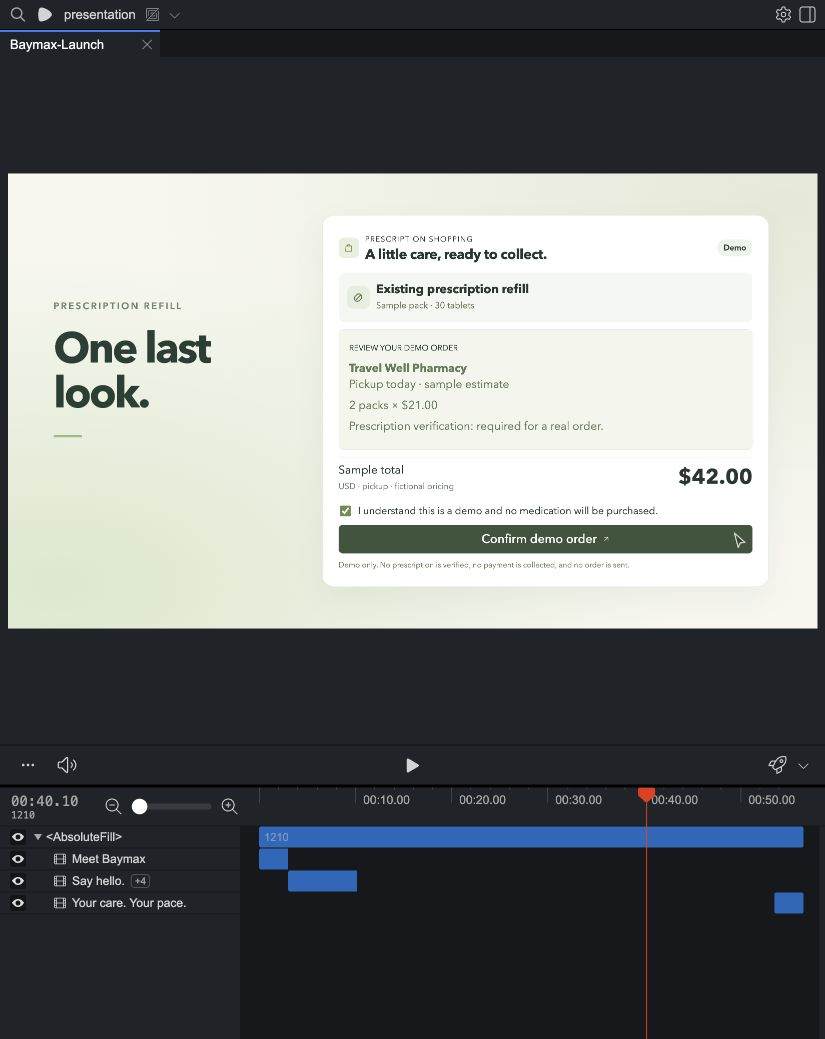
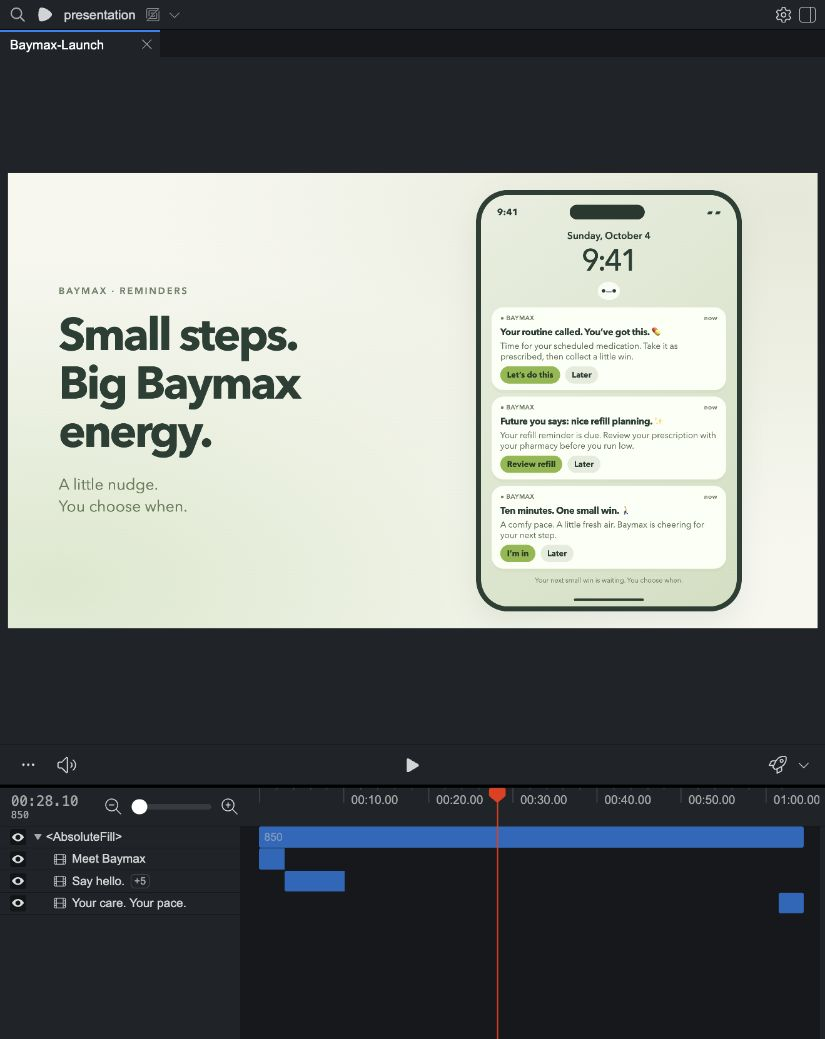
Focus demo on medical care and add animated phone reminders

diff --git a/presentation/src/demo/DemoApp.tsx b/presentation/src/demo/DemoApp.tsx
@@ -14,18 +14,18 @@ const Task=({children,checked=false,active=false}:{children:React.ReactNode;chec
 const Card=({children,className=''}:{children:React.ReactNode;className?:string})=><section className={`d-card ${className}`}>{children}</section>;
 const Typed=({text,frame}:{text:string;frame:number})=><>{text.slice(0,Math.floor(Math.max(0,frame)*1.35))}<span className="d-type-caret"/></>;
 
-const Today=({water=3,completed=false}:{water?:number;completed?:boolean})=><div className="d-today"><div className="d-today-intro"><div><span className="d-eyebrow">A LITTLE CARE GOES A LONG WAY</span><h2>Good morning, Alex.</h2><p>You’re building something great. Let’s take care of you, too.</p></div><span className="d-status">{completed?'Check-in saved ✓':'Your little wins today'}</span></div><div className="d-metrics">{[{title:'HYDRATION',icon:<Water size={34}/>,value:String(water),unit:'/ 8 glasses',note:'A sip now is a little win.'},{title:'MOVEMENT',icon:<Walk size={34}/>,value:completed?'10':'0',unit:'/ 30 minutes',note:completed?'Walk completed ✓':'One small step counts.'},{title:'YOUR ENERGY',icon:<Sun size={34}/>,value:completed?'Good':'Check in',unit:completed?'today':'',note:'You don’t have to be at 100%.'}].map((m,i)=><Card key={m.title}><div className="d-metric-top">{m.icon}<span>{m.title}</span>{i===0&&<b className={water===4?'d-water-added':''}>＋<Cue id="Water"/></b>}</div><div className="d-metric-value">{m.value}<small>{m.unit}</small></div>{i===0?<div className="d-water-bars">{Array.from({length:8},(_,j)=><i key={j} className={j<water?'filled':''}/>)}</div>:<div className="d-metric-track"><i style={{width:i===1?(completed?'33%':'0%'):'75%'}}/></div>}<p>{m.note}</p></Card>)}</div></div>;
+const Today=({water=3,completed=false}:{water?:number;completed?:boolean})=><div className="d-today"><div className="d-today-intro"><div><span className="d-eyebrow">A LITTLE CARE GOES A LONG WAY</span><h2>Good morning, Alex.</h2><p>Keep your health notes and daily check-ins together.</p></div><span className="d-status">{completed?'Check-in saved ✓':'Your little wins today'}</span></div><div className="d-metrics">{[{title:'HYDRATION',icon:<Water size={34}/>,value:String(water),unit:'/ 8 glasses',note:'A sip now is a little win.'},{title:'MOVEMENT',icon:<Walk size={34}/>,value:'0',unit:'/ 30 minutes',note:'One small step counts.'},{title:'YOUR ENERGY',icon:<Sun size={34}/>,value:completed?'Good':'Check in',unit:completed?'today':'',note:'You don’t have to be at 100%.'}].map((m,i)=><Card key={m.title}><div className="d-metric-top">{m.icon}<span>{m.title}</span>{i===0&&<b className={water===4?'d-water-added':''}>＋<Cue id="Water"/></b>}</div><div className="d-metric-value">{m.value}<small>{m.unit}</small></div>{i===0?<div className="d-water-bars">{Array.from({length:8},(_,j)=><i key={j} className={j<water?'filled':''}/>)}</div>:<div className="d-metric-track"><i style={{width:i===1?'0%':'75%'}}/></div>}<p>{m.note}</p></Card>)}</div></div>;
 
 const Welcome=({step,stepFrame}:Props)=>{
  if(step===3)return <Today/>;
- if(step===2)return <div className="d-chat-welcome"><MascotSprite size={170}/><h2>Hello. I am Baymax.</h2><p>Your personal care companion. What’s on your mind?</p><div className="d-suggestions"><span>Help me prepare for a hackathon ↗</span><span>I need a prescription refill ↗</span><span>Draft a brief to my doctor ↗</span></div><div className="d-composer">Tell Baymax what you need…<b>↑</b></div></div>;
+ if(step===2)return <div className="d-chat-welcome"><MascotSprite size={170}/><h2>Hello. I am Baymax.</h2><p>Your Medical Personal Agent. What’s on your mind?</p><div className="d-suggestions"><span>Help me prepare for my doctor visit ↗</span><span>I need a prescription refill ↗</span><span>Draft a brief to my doctor ↗</span></div><div className="d-composer">Tell Baymax what you need…<b>↑</b></div></div>;
  return <Card className="d-welcome"><div className="d-welcome-copy"><span className="d-eyebrow">MEET YOUR CARE COMPANION</span><h2>A little adorable.<br/>A lot of love.</h2><p>I’ll help you make room for your health, even when life gets busy.</p><Field label="What should I call you?" value={step===1?typed('Alex',stepFrame-3,.35):''} active={step===1}/><Action active={step===1&&stepFrame>25}>Let’s take care of you</Action></div><div className="d-welcome-mascot"><MascotSprite size={360} greeting/></div></Card>;
 };
 const Care=({step,stepFrame}:Props)=>{
  if(step===5)return <Today water={stepFrame>at('care',5,'Water')?4:3} completed/>;
- if(step===0)return <div className="d-conversation">{stepFrame>32&&<div className="d-user-message">Help me prepare for a hackathon</div>}{stepFrame>42&&<div className="d-response"><MascotSprite size={140}/><div><h2>Let’s make a plan.</h2></div></div>}<div className="d-composer">{stepFrame<=32?<Typed text="Help me prepare for a hackathon" frame={stepFrame}/>: 'What else is on your mind?'}<b>↑<Cue id="Send"/></b></div></div>;
+ if(step===0)return <div className="d-conversation">{stepFrame>32&&<div className="d-user-message">Help me prepare for my doctor visit</div>}{stepFrame>42&&<div className="d-response"><MascotSprite size={140}/><div><h2>Let’s make a plan.</h2></div></div>}<div className="d-composer">{stepFrame<=32?<Typed text="Help me prepare for my doctor visit" frame={stepFrame}/>: 'What else is on your mind?'}<b>↑<Cue id="Send"/></b></div></div>;
  if(step===3)return <Card className="d-energy"><span className="d-eyebrow">YOUR DAILY CHECK-IN</span><h2>How’s your energy?</h2><p>There’s no wrong answer. Start where you are.</p><div className="d-energy-options">{['Low','Okay','Good','Great'].map((v,i)=><div key={v} className={v==='Good'&&stepFrame>20?'selected':''}><span>{['☁','◒','☀','✦'][i]}</span>{v}<Cue id={v}/></div>)}</div><Action active={stepFrame>40}>Save my check-in</Action></Card>;
- return <div className="d-two-column"><Card className="d-plan"><span className="d-eyebrow">YOUR PREPARATION PLAN</span><h2>Build something great.<br/>Feel good doing it.</h2><div className="d-fields-row"><Field label="Event" value="Build Personal Agents Hackathon"/><Field label="Date" value="October 10, 2026"/></div><Task checked={step>2||(step===2&&stepFrame>at('care',2,'Take a 10-minute walk'))} active={step===2}>Take a 10-minute walk</Task><Task checked={(step>2||(step===2&&stepFrame>at('care',2,'Make time for a real meal')))}>Make time for a real meal</Task><Task>Set a wind-down reminder</Task><div className="plan-next"><Action active={step===2&&stepFrame>40}>Check in for today</Action></div></Card><div className="d-care-side"><MascotSprite size={230}/>{step===4?<><div className="d-success"><Check size={30}/> Check-in saved</div><h3>Good energy today.</h3><p>Thank you for making a little time for yourself.</p></>:<><h3>A small step counts.</h3><p>Check off a little win,<br/>then check in with yourself.</p><Action active={step===2&&stepFrame>40}>Check in for today</Action></>}</div></div>;
+ return <div className="d-two-column"><Card className="d-plan"><span className="d-eyebrow">YOUR PREPARATION PLAN</span><h2>Your next appointment.<br/>A little more prepared.</h2><div className="d-fields-row"><Field label="Appointment" value="Primary care visit"/><Field label="Date" value="October 10, 2026"/></div><Task checked={step>2||(step===2&&stepFrame>at('care',2,'Write down my symptoms'))} active={step===2}>Write down my symptoms</Task><Task checked={(step>2||(step===2&&stepFrame>at('care',2,'Review my medication list')))}>Review my medication list</Task><Task>Prepare questions for my doctor</Task><div className="plan-next"><Action active={step===2&&stepFrame>40}>Check in for today</Action></div></Card><div className="d-care-side"><MascotSprite size={230}/>{step===4?<><div className="d-success"><Check size={30}/> Check-in saved</div><h3>Good energy today.</h3><p>Thank you for making a little time for yourself.</p></>:<><h3>A small step counts.</h3><p>Check off a little win,<br/>then check in with yourself.</p><Action active={step===2&&stepFrame>40}>Check in for today</Action></>}</div></div>;
 };
 const Travel=({step,stepFrame}:Props)=>{
  if(step===3)return <Brief sceneId="brief" step={0} stepFrame={100}/>;

diff --git a/presentation/src/LaunchVideo.tsx b/presentation/src/LaunchVideo.tsx
@@ -1,6 +1,7 @@
 import React from 'react';
 import {AbsoluteFill, Sequence, interpolate, spring, useCurrentFrame, useVideoConfig} from 'remotion';
 import sceneData from './scene-data.json';
+import {ReminderDemo} from './demo/ReminderDemo';
 import {DemoApp} from './demo/DemoApp';
 import {MascotSprite} from './demo/MascotSprite';
 import './video.css';
@@ -18,7 +19,7 @@ const Brand=()=> <div className="brand"><span className="face"><i/><em/><i/></sp
 
 export const Opening:React.FC=()=>{
  const f=useCurrentFrame();const {fps}=useVideoConfig();const enter=spring({frame:f-4,fps,config:{damping:24}});
- return <AbsoluteFill className="canvas opening"><div className="intro-copy" style={{opacity:enter,transform:`translateY(${(1-enter)*24}px)`}}><Brand/><h1>A little care. Every day.</h1></div><div className="opening-sprite" style={{opacity:enter,transform:`translateY(${(1-enter)*55}px)`}}><MascotSprite size={570} greeting/></div></AbsoluteFill>;
+ return <AbsoluteFill className="canvas opening"><div className="intro-copy" style={{opacity:enter,transform:`translateY(${(1-enter)*24}px)`}}><Brand/><h1>An adorable Medical Personal Agent<br/>that cares for you.</h1></div><div className="opening-sprite" style={{opacity:enter,transform:`translateY(${(1-enter)*55}px)`}}><MascotSprite size={570} greeting/></div></AbsoluteFill>;
 };
 
 export const DemoChapter:React.FC<{scene:DemoScene;index:number}>=({scene,index})=>{
@@ -26,6 +27,7 @@ export const DemoChapter:React.FC<{scene:DemoScene;index:number}>=({scene,index}
  const current=Math.max(0,scene.captions.findLastIndex(c=>c.at*fps<=f));
  const captionAt=Math.round((scene.captions[current]?.at??0)*fps);
  const enter=interpolate(f,[0,12],[0,1],clamp);
+ if(scene.id==='reminders')return <AbsoluteFill className="canvas reminder-scene"><div className="reminder-copy"><div className="scene-kicker">BAYMAX · REMINDERS</div><h2>Small steps.<br/>Big Baymax<br/>energy.</h2><p>A little nudge.<br/>You choose when.</p></div><ReminderDemo/></AbsoluteFill>;
  const wide=(scene.id==='welcome'&&current===3)||(scene.id==='care'&&current===5)||scene.id==='brief'||(scene.id==='travel'&&current===3);
  const mode=wide?'overview':scene.id==='prescription'?'refill':scene.id==='care'&&current===0?'conversation':scene.id==='travel'?'travel':'personal';
  const title=scene.id==='care'?(current===0?'Make room\nfor you.':current===3?'How are\nyou, really?':current===4?'A little\nwin.':'Small steps.\nEvery day.'):scene.id==='prescription'?(current>=4?'All set.':current>=2?'One last\nlook.':'A refill.\nMade simple.'):scene.id==='travel'?'Care,\nwherever\nyou go.':scene.id==='welcome'?'Start with\nhello.':headlines[scene.id];
@@ -37,7 +39,7 @@ export const DemoChapter:React.FC<{scene:DemoScene;index:number}>=({scene,index}
 
 export const Closing:React.FC=()=>{
  const f=useCurrentFrame();const {fps}=useVideoConfig();const enter=spring({frame:f-3,fps,config:{damping:24}});
- return <AbsoluteFill className="canvas closing"><div className="closing-sprite" style={{opacity:enter,transform:`translateY(${(1-enter)*28}px)`}}><MascotSprite size={390}/></div><div className="outro-copy" style={{opacity:enter}}><h1>Your care. Your pace.</h1><Brand/></div></AbsoluteFill>;
+ return <AbsoluteFill className="canvas closing"><div className="closing-sprite" style={{opacity:enter,transform:`translateY(${(1-enter)*28}px)`}}><MascotSprite size={390}/></div><div className="outro-copy" style={{opacity:enter}}><h1>Your care. Your pace.</h1><Brand/><p className="positioning">Designed to be secure and compliant.</p></div></AbsoluteFill>;
 };
 export const LaunchVideo:React.FC=()=>{
  let start=INTRO;

diff --git a/presentation/src/video.css b/presentation/src/video.css
@@ -24,3 +24,8 @@
 .layout-personal [data-demo-step="4"] .d-care-side{display:flex;height:610px;background:#fff;border:1px solid #dce4d5;border-radius:28px;box-shadow:0 25px 65px #304f3210}
 
 .layout-travel .scene-copy,.variant-checkin .scene-copy{left:110px;top:82px;width:1700px;text-align:center}.layout-travel .scene-copy h2,.variant-checkin .scene-copy h2{font-size:78px;line-height:1.1;white-space:normal;letter-spacing:-3px}.layout-travel .scene-kicker,.variant-checkin .scene-kicker{margin-bottom:20px}.layout-travel .scene-rule,.variant-checkin .scene-rule{display:none}.layout-travel .feature-stage{left:460px;top:270px;width:1000px;height:730px}.variant-checkin .feature-stage{left:360px;top:290px;width:1200px;height:650px}
+
+.intro-copy h1{font-size:48px;line-height:1.25;margin-top:28px}.outro-copy .positioning{font-size:32px;font-weight:500;letter-spacing:-.6px;color:#647d51;margin:30px 0 0}
+
+.reminder-copy{position:absolute;left:120px;top:265px;width:800px}.reminder-copy h2{font-size:108px;line-height:1.06;letter-spacing:-5px;margin:0;font-weight:650}.reminder-copy>p{font-size:37px;line-height:1.4;color:#687e59;margin:42px 0 0}.reminder-phone{position:absolute;left:1110px;top:40px;width:630px;height:1000px;border:12px solid #293f33;border-radius:76px;background:linear-gradient(140deg,#e8eedf,#d1dfc0);padding:26px 25px;box-shadow:0 26px 70px #304f3218}.phone-status{display:flex;justify-content:space-between;align-items:center;font-size:22px;padding:0 13px;position:relative}.phone-island{position:absolute;left:185px;top:-3px;width:178px;height:35px;border-radius:30px;background:#26392f}.phone-date{text-align:center;font-size:23px;font-weight:600;margin-top:39px}.phone-clock{text-align:center;font-size:85px;line-height:1.1;letter-spacing:-5px;font-weight:450;margin-top:5px}.phone-face{width:53px;height:43px;background:#f8fbf3;border-radius:50%;margin:10px auto 17px;display:grid;place-items:center;font-size:23px}.phone-notifications{display:flex;flex-direction:column;gap:15px}.phone-notification{background:#fbfff5;border:1px solid #edf4e5;border-radius:28px;padding:20px 22px;box-shadow:0 7px 0 #b5c69a26}.notification-source{display:flex;justify-content:space-between;font-size:15px;color:#718168;font-weight:600;letter-spacing:.6px}.phone-notification h3{font-size:24px;line-height:1.2;letter-spacing:-.6px;margin:13px 0 8px}.phone-notification p{font-size:21px;line-height:1.3;margin:0;color:#5e7154}.notification-actions{display:flex;gap:12px;margin-top:13px;font-size:20px;font-weight:650}.notification-actions span{padding:10px 18px;border-radius:24px;background:#e5ecdc}.notification-actions span:first-child{background:#8cb943;color:#263c25}.phone-footer{font-size:17px;text-align:center;color:#6c7d5d;margin-top:22px}.phone-home{position:absolute;bottom:13px;left:220px;width:166px;height:6px;border-radius:4px;background:#293f33}
+.reminder-phone .phone-date{margin-top:25px}.reminder-phone .phone-clock{font-size:72px}.reminder-phone .phone-notification{padding:15px 20px}.reminder-phone .phone-notification h3{font-size:22px;margin:10px 0 7px}.reminder-phone .phone-notification p{font-size:20px;line-height:1.25}.reminder-phone .notification-actions{margin-top:10px;font-size:19px}.reminder-phone .notification-actions span{padding:8px 16px}.reminder-phone .phone-footer{margin-top:16px;font-size:16px}

diff --git a/presentation/src/demo/ReminderDemo.tsx b/presentation/src/demo/ReminderDemo.tsx
@@ -1,0 +1,11 @@
+import React from 'react';
+import {interpolate,useCurrentFrame} from 'remotion';
+const notifications=[
+ {at:18,title:'Your routine called. You’ve got this. 💊',body:'Time for your scheduled medication. Take it as prescribed, then collect a little win.',action:'Let’s do this'},
+ {at:65,title:'Future you says: nice refill planning. ✨',body:'Your refill reminder is due. Review your prescription with your pharmacy before you run low.',action:'Review refill'},
+ {at:112,title:'Ten minutes. One small win. 🚶',body:'A comfy pace. A little fresh air. Baymax is cheering for your next step.',action:'I’m in'},
+];
+export const ReminderDemo=()=>{
+ const frame=useCurrentFrame();
+ return <div className="reminder-phone"><div className="phone-status"><b>9:41</b><span className="phone-island"/><span>▰ ▰</span></div><div className="phone-date">Sunday, October 4</div><div className="phone-clock">9:41</div><div className="phone-face">•—•</div><div className="phone-notifications">{notifications.map(n=>{const progress=interpolate(frame,[n.at,n.at+14],[0,1],{extrapolateLeft:'clamp',extrapolateRight:'clamp'});return <div key={n.at} className="phone-notification" style={{opacity:progress,transform:`translateY(${(1-progress)*22}px)`}}><div className="notification-source"><span>● BAYMAX</span><span>now</span></div><h3>{n.title}</h3><p>{n.body}</p><div className="notification-actions"><span>{n.action}</span><span>Later</span></div></div>;})}</div><div className="phone-footer">Your next small win is waiting. You choose when.</div><div className="phone-home"/></div>;
+};

diff --git a/presentation/src/demo/Interaction.tsx b/presentation/src/demo/Interaction.tsx
@@ -6,7 +6,7 @@ export const events:Record<string,Record<string,number>>={
  'welcome:1':{'Let’s take care of you':32},
  'welcome:2':{'Today':50},
  'care:0':{'Send':32},
- 'care:2':{'Take a 10-minute walk':12,'Make time for a real meal':32,'Check in for today':56},
+ 'care:2':{'Write down my symptoms':12,'Review my medication list':32,'Check in for today':56},
  'care:3':{'Good':20,'Save my check-in':58},
  'care:4':{'Today':62},
  'care:5':{'Water':12},

diff --git a/presentation/README.md b/presentation/README.md
@@ -1,6 +1,6 @@
 # Baymax launch presentation
 
-An editable, approximately 57-second landscape launch video built with React components in Remotion. The demos are frame-driven UI scenes, so text stays sharp and every interaction can be adjusted without re-recording footage.
+An editable, approximately 65-second landscape launch video built with React components in Remotion. The demos are frame-driven UI scenes, so text stays sharp and every interaction can be adjusted without re-recording footage.
 
 ## Open Remotion Studio
 
@@ -21,7 +21,7 @@ Open http://localhost:3100/Baymax-Launch. No exported video is included.
 - `src/demo/demo-app.css` and `src/video.css`: large UI typography and presentation layout.
 - `public/mascot/`: Baymax sprite assets.
 
-Sequence: Baymax introduction → care plan and daily check-in → travel preparation → prescription review → doctor brief and email review → closing.
+Sequence: Baymax introduction → medical appointment preparation and daily check-in → phone reminders → travel preparation → prescription review → doctor brief and email review → closing.
 
 The scenes use local example data and do not call the app backend, place orders, or send email. UI steps advance according to the composition frame. The prescription and email flows show review and confirmation boundaries.
 
@@ -43,6 +43,8 @@ Production guidance: [launch-video](https://github.com/jerelvelarde/demo-skills/
 
 Visual reference: user-supplied `OpenDots-Storyboard-v3-1080p.mp4` (1920×1080, 30 fps, 86 seconds). Sampled frames were inspected for title hierarchy, demo framing, backgrounds, and mascot placement. The reference video and audio are not bundled or reused.
 
-The Baymax adaptation keeps its approximately 57-second sequence, sage/cream/forest palette, original sprite assets, and component-based interactions. Feature-specific compositions replace the shared full-width app shell: a compact conversation, a checklist with its action, centered energy and travel cards, a vertical refill card, and wider document review. Headlines sit beside focused tasks or above centered cards, with no changing footer captions. The opening and closing center the Baymax wordmark and sprite. Short frame-driven entrances establish each chapter, then the camera holds steady during the interaction.
+The Baymax adaptation keeps its approximately 65-second sequence, sage/cream/forest palette, original sprite assets, and component-based interactions. Feature-specific compositions replace the shared full-width app shell: a compact conversation, a checklist with its action, centered energy and travel cards, a vertical refill card, and wider document review. Headlines sit beside focused tasks or above centered cards, with no changing footer captions. The opening and closing center the Baymax wordmark and sprite. Short frame-driven entrances establish each chapter, then the camera holds steady during the interaction.
 
 Claims remain limited to the example UI: conversation, daily care steps, travel preparation, simulated refill review, and a health-brief email draft. No backend execution is implied. TypeScript and representative intro/demo/outro frames were checked in Studio; no video export was rendered.
+
+The reminder phone scene recreates the user-supplied Baymax reminder UI as editable components. Medication, refill, and movement notifications enter in sequence over eight seconds. The appointment example uses symptoms, medication review, and questions for a doctor; no hackathon scenario remains. The positioning describes security and compliance as design intent, not a certification claim.
